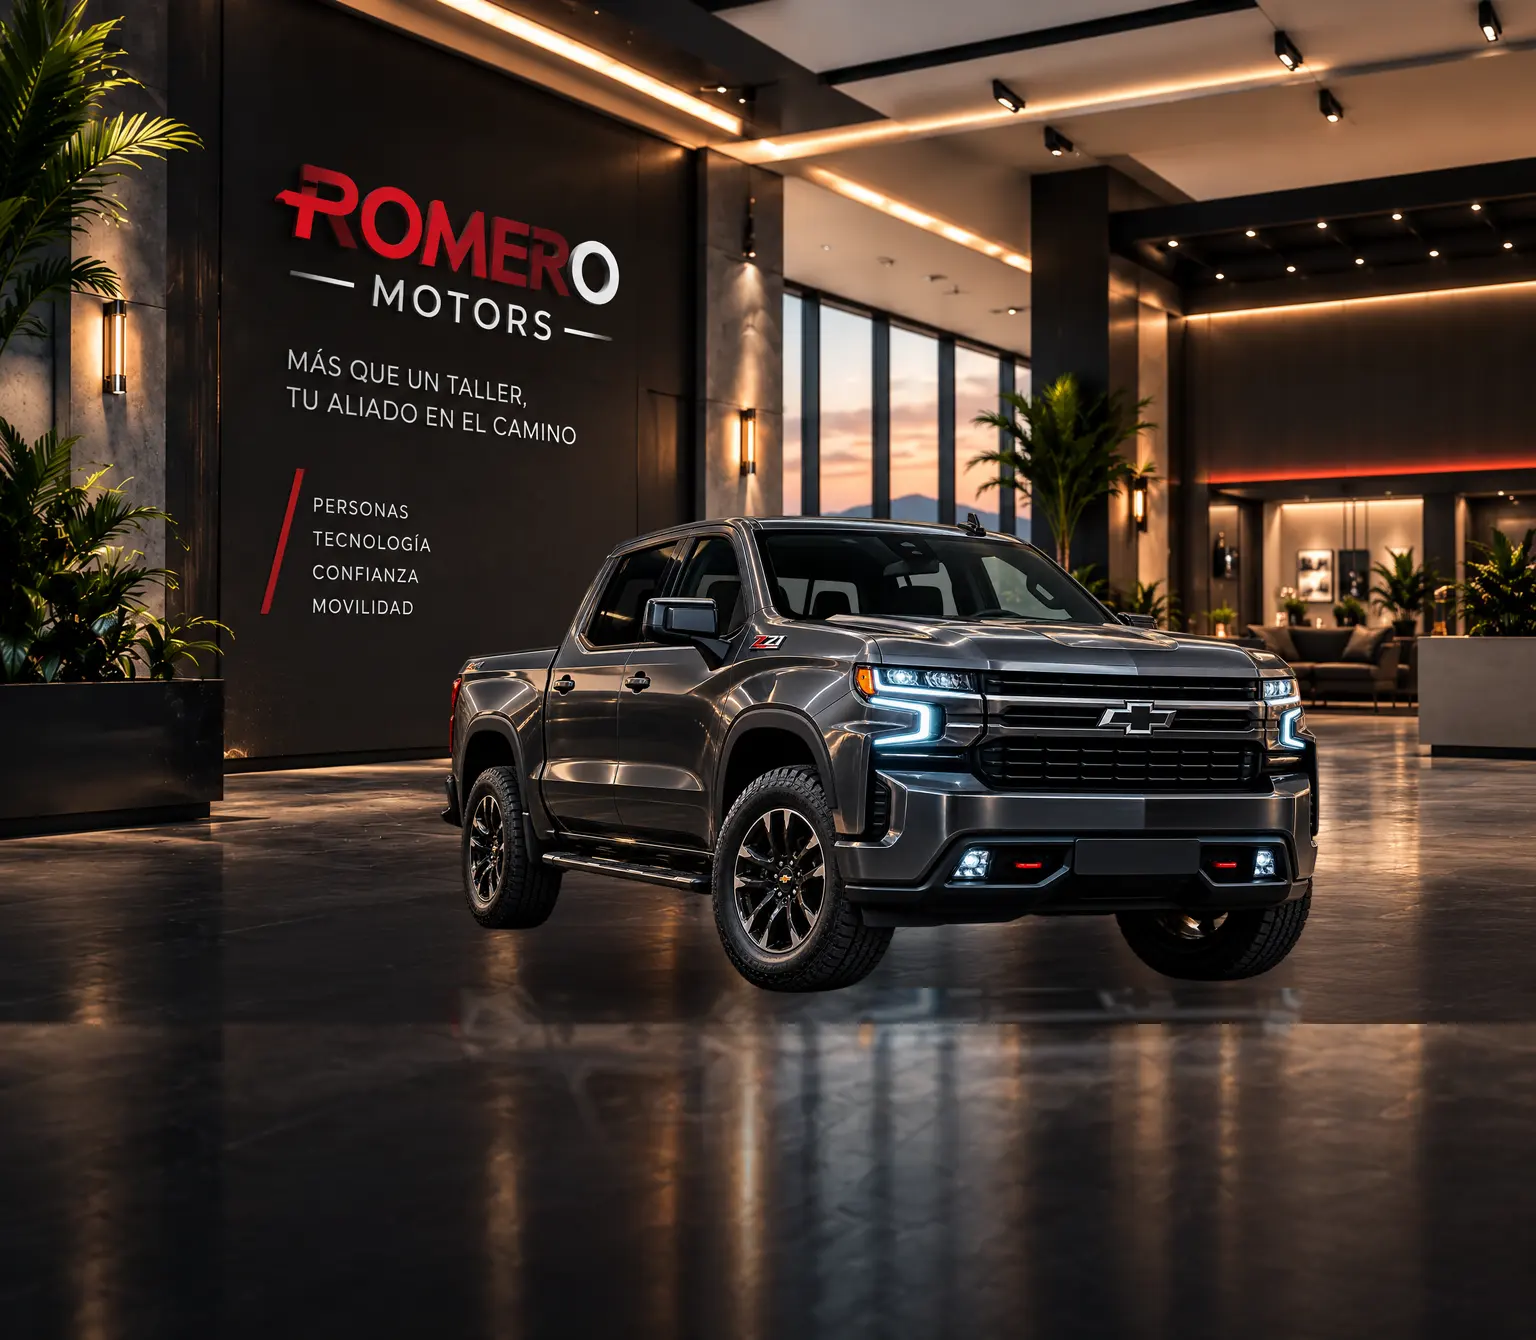
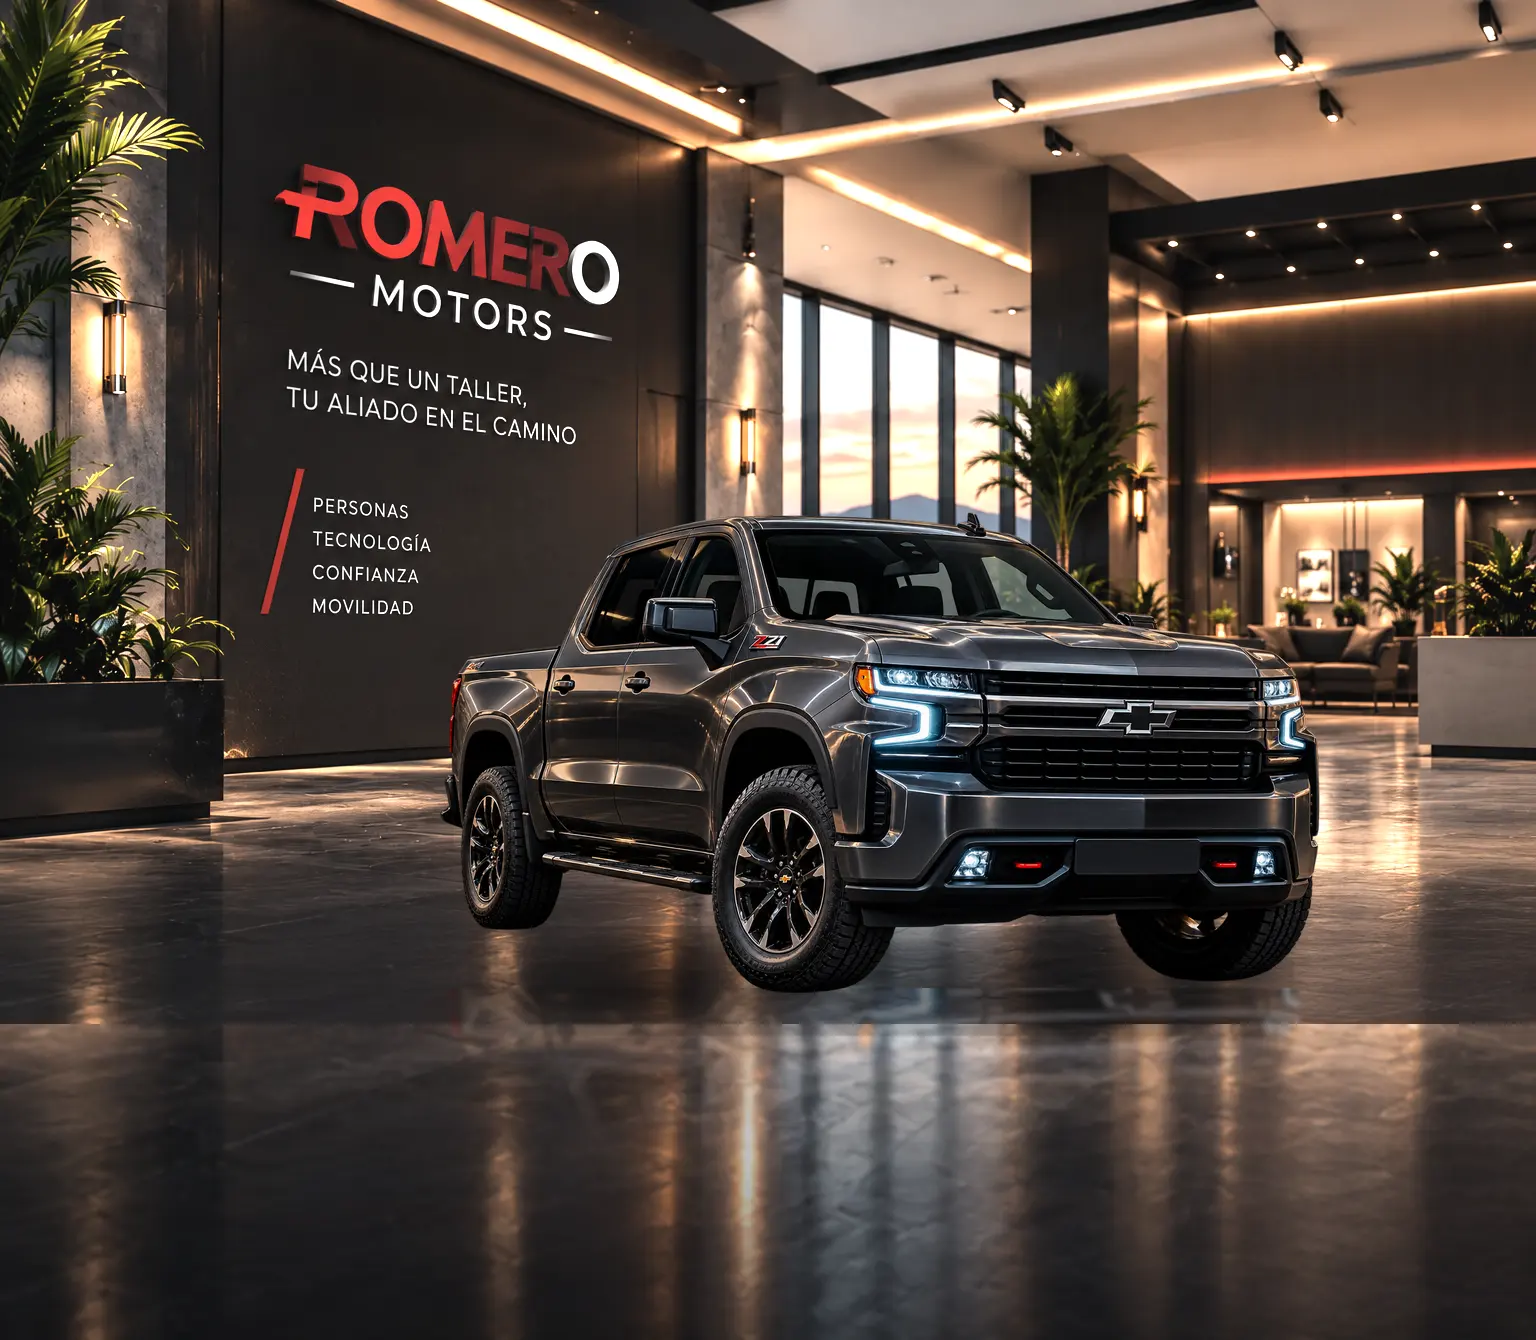
fix(login): la portada deja de estar a oscuras
Se sumaban tres cosas: la toma viene de estudio virtual y es muy oscura de
origen, y encima llevaba dos velos para asentar el texto. Juntas apagaban
la escena hasta que no se distinguía el suelo del vehículo.

La fotografía va revelada en el montaje: más luz y las sombras levantadas
con un desplazamiento pequeño. `linear` suma antes de multiplicar, así que
abre los negros sin quemar las luces del techo —que es lo que pasaría
subiendo solo el brillo, y son justo el detalle que da el aire de
concesionario—.

Y los velos bajan un tercio. La pared ya es oscura de suyo, y velo sobre
oscuro no da contraste: da barro. El titular sigue apoyando en el velo de
abajo, que es el que sí hace falta porque ahí el suelo es claro y
reflectante; comprobado que sigue leyéndose.

Claude-Session: https://claude.ai/code/session_01KUDAQwREnaamk6HaP9iiAy

diff --git a/src/app/login/page.tsx b/src/app/login/page.tsx
@@ -146,16 +146,21 @@ function ShowcasePanel() {
           lea como una campaña y no como texto encima de una foto: el lado del
           texto queda en penumbra y el vestíbulo se abre hacia la derecha.
           Antes solo había uno de abajo arriba, y el titular competía con el
-          capó de la camioneta. */}
+          capó de la camioneta.
+
+          Las opacidades bajaron un tercio cuando la fotografía pasó a ir
+          revelada: la pared ya es oscura de suyo, y velo sobre oscuro no da
+          contraste, da barro. El titular apoya en el velo de abajo, que es el
+          que sí hace falta porque ahí el suelo es claro y reflectante. */}
       <span
         aria-hidden
-        className="absolute inset-0 -z-10 bg-[linear-gradient(90deg,rgb(7_8_10/0.80)_0%,rgb(7_8_10/0.58)_38%,rgb(7_8_10/0.25)_64%,rgb(7_8_10/0.06)_100%)]"
+        className="absolute inset-0 -z-10 bg-[linear-gradient(90deg,rgb(7_8_10/0.62)_0%,rgb(7_8_10/0.44)_38%,rgb(7_8_10/0.18)_64%,rgb(7_8_10/0.04)_100%)]"
       />
       {/* El segundo asienta el bloque de abajo, donde el suelo es claro y
           reflectante. */}
       <span
         aria-hidden
-        className="absolute inset-0 -z-10 bg-[linear-gradient(to_top,rgb(7_8_10/0.80)_0%,rgb(7_8_10/0.30)_34%,transparent_62%)]"
+        className="absolute inset-0 -z-10 bg-[linear-gradient(to_top,rgb(7_8_10/0.78)_0%,rgb(7_8_10/0.28)_36%,transparent_64%)]"
       />
 
       <div className="relative flex h-full flex-col justify-end p-10 xl:p-14">
